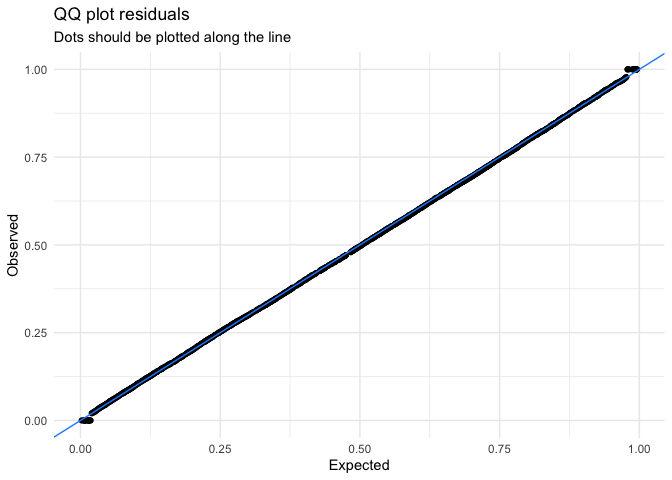
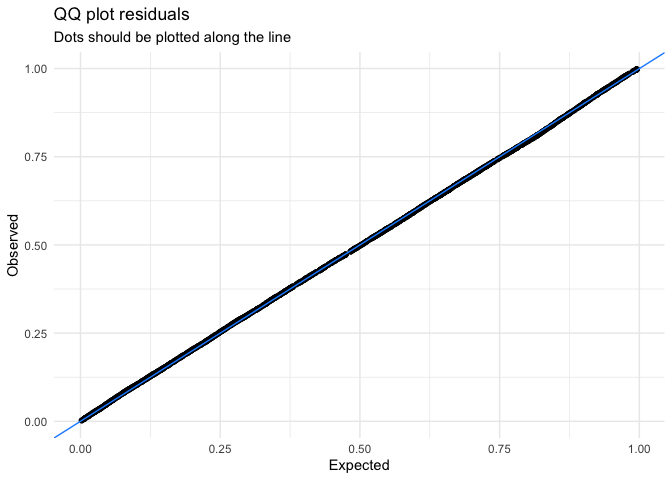
exposure definition added

diff --git a/README.md b/README.md
@@ -85,10 +85,14 @@ autoplot(clusters_freq, show_observations = TRUE)
 
 ![](man/figures/figfreq-1.png)<!-- -->
 
-The figure shows that younger policyholders have a higher risk profile.
-The fitted GAM is lower than might be expected from the observed claim
-frequency for policyholders of age 19. This is because there are very
-few young policyholders of age 19 present in the portfolio.
+In this example the term *exposure* is a measure of what is being
+insured. Here an insured vehicle is an exposure. If the vehicle is
+insured as of July 1 for a certain year, then during that year, this
+would represent an exposure of 0.5 to the insurance company. The figure
+shows that younger policyholders have a higher risk profile. The fitted
+GAM is lower than might be expected from the observed claim frequency
+for policyholders of age 19. This is because there are very few young
+policyholders of age 19 present in the portfolio.
 
 The GAM for the claim severity :
 
@@ -125,8 +129,7 @@ glimpse(dat)
     ## $ age_policyholder_freq_cat <fct> "(39,50]", "[18,25]", "(50,57]", "(39,50]",…
 
 The last part is to fit a *generalized linear model*. `rating_factors()`
-prints the output including the reference
-group.
+prints the output including the reference group.
 
 ``` r
 model_freq1 <- glm(nclaims ~ age_policyholder_freq_cat, offset = log(exposure), 
@@ -139,8 +142,7 @@ x <- rating_factors(model_freq1, model_freq2)
 x
 ```
 
-    ## Significance levels: *** p < 0.001; ** p < 0.01;  * p < 0.05; . p < 0.1
-    ##                  risk_factor            level est_model_freq1 est_model_freq2
+    ## [34mSignificance levels: *** p < 0.001; ** p < 0.01;  * p < 0.05; . p < 0.1[39m                 risk_factor            level est_model_freq1 est_model_freq2
     ## 1                (Intercept)      (Intercept)    0.136818 ***    0.321029 ***
     ## 2  age_policyholder_freq_cat          (39,50]    1.000000        1.000000    
     ## 3  age_policyholder_freq_cat          [18,25]    1.943823 ***    1.290960    
@@ -176,8 +178,7 @@ rating_factors(model_freq1, model_freq2, model_data = dat) %>%
 ![](man/figures/example3b-1.png)<!-- -->
 
 The following graph includes the exposure as a bar graph and shows some
-more
-options:
+more options:
 
 ``` r
 rating_factors(model_freq1, model_freq2, model_data = dat, exposure = exposure) %>%
@@ -281,13 +282,19 @@ tests almost always yield significant results for the distribution of
 residuals and visual inspections (e.g. Q-Q plots) are preferable.
 
 ``` r
-check_residuals(model_freq1, n_simulations = 50) %>%
+check_residuals(model_freq1, n_simulations = 1000) %>%
   autoplot(.)
 ```
 
-    ## Warning: deviations from the expected distribution detected (p = 0.000).
+    ## OK: residuals appear as from the expected distribution (p = 0.055).
 
 ![](man/figures/normalitysim-1.png)<!-- -->
+
+It might happen that in the fitted model for a data point all
+simulations have the same value (e.g. zero), this returns the error
+message *Error in approxfun: need at least two non-NA values to
+interpolate*. If that is the case, it could help to increase the number
+of simulations (e.g. \(n = 1000\)).
 
 ## Example 2
 
@@ -333,8 +340,11 @@ The following indicators are calculated:
 4.  loss\_ratio (i.e. loss ratio = severity / premium)
 5.  average\_premium (i.e. average premium = premium / exposure)
 
-The term risk premium is used here as an equivalent of pure premium and
-burning cost.
+Here the term *exposure* is a measure of what is being insured. For
+example, an insured vehicle is an exposure. If the vehicle is insured as
+of July 1 for a certain year, then during that year, this would
+represent an exposure of 0.5 to the insurance company. The term risk
+premium is used here as an equivalent of pure premium and burning cost.
 
 `univariate()` ignores missing input arguments, for instance only the
 claim frequency is calculated when `premium` and `severity` are unknown:
@@ -382,6 +392,18 @@ univariate(MTPL2, x = area, nclaims = nclaims, exposure = exposure) %>%
 
 ![](man/figures/example7-1.png)<!-- -->
 
+To check whether claim frequency is consistent over the years:
+
+``` r
+MTPL2 %>%
+  mutate(year = sample(2016:2019, nrow(.), replace = TRUE)) %>%
+  univariate(., x = area, nclaims = nclaims, 
+           exposure = exposure, by = year) %>%
+  autoplot(., show_plots = 1)
+```
+
+![](man/figures/unnamed-chunk-3-1.png)<!-- -->
+
 To remove the bars from the plot with the line graph, add `background =
 FALSE`:
 
@@ -428,7 +450,7 @@ Or create a bar graph for the number of claims:
 
 ``` r
 univariate(MTPL2, x = area, nclaims = nclaims) %>%
-  autoplot(., coord_flip = TRUE, sort = TRUE)
+  autoplot(., show_plots = 8, coord_flip = TRUE, sort = TRUE)
 ```
 
 ![](man/figures/example12-1.png)<!-- -->
